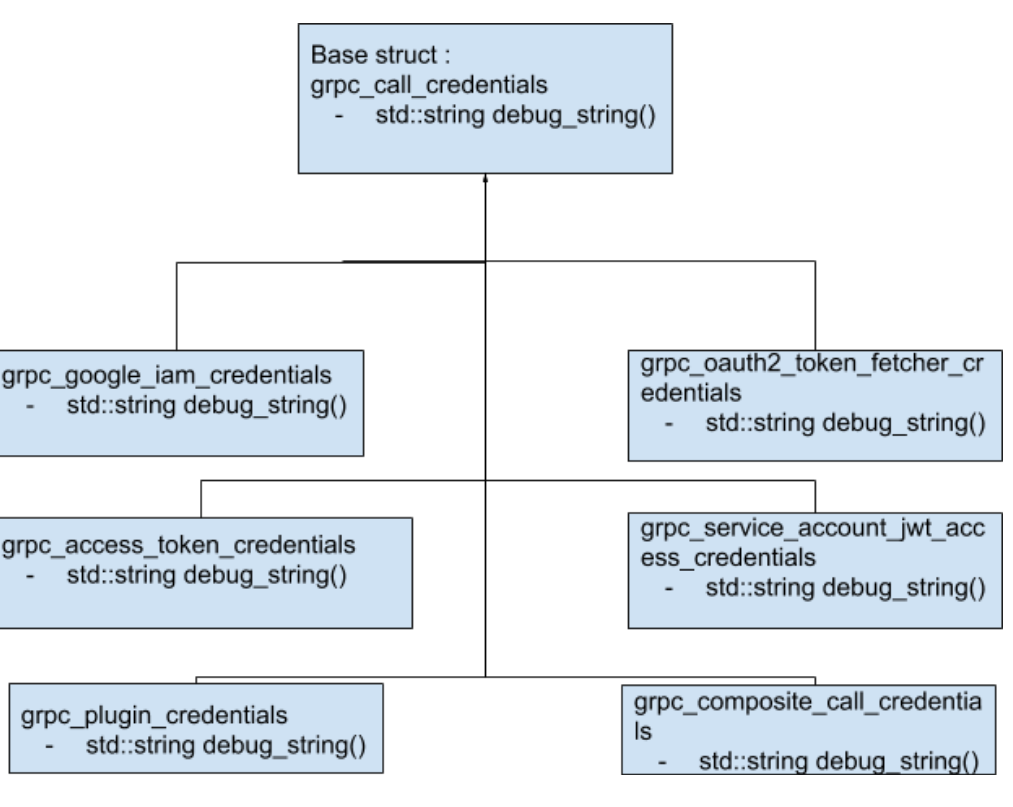
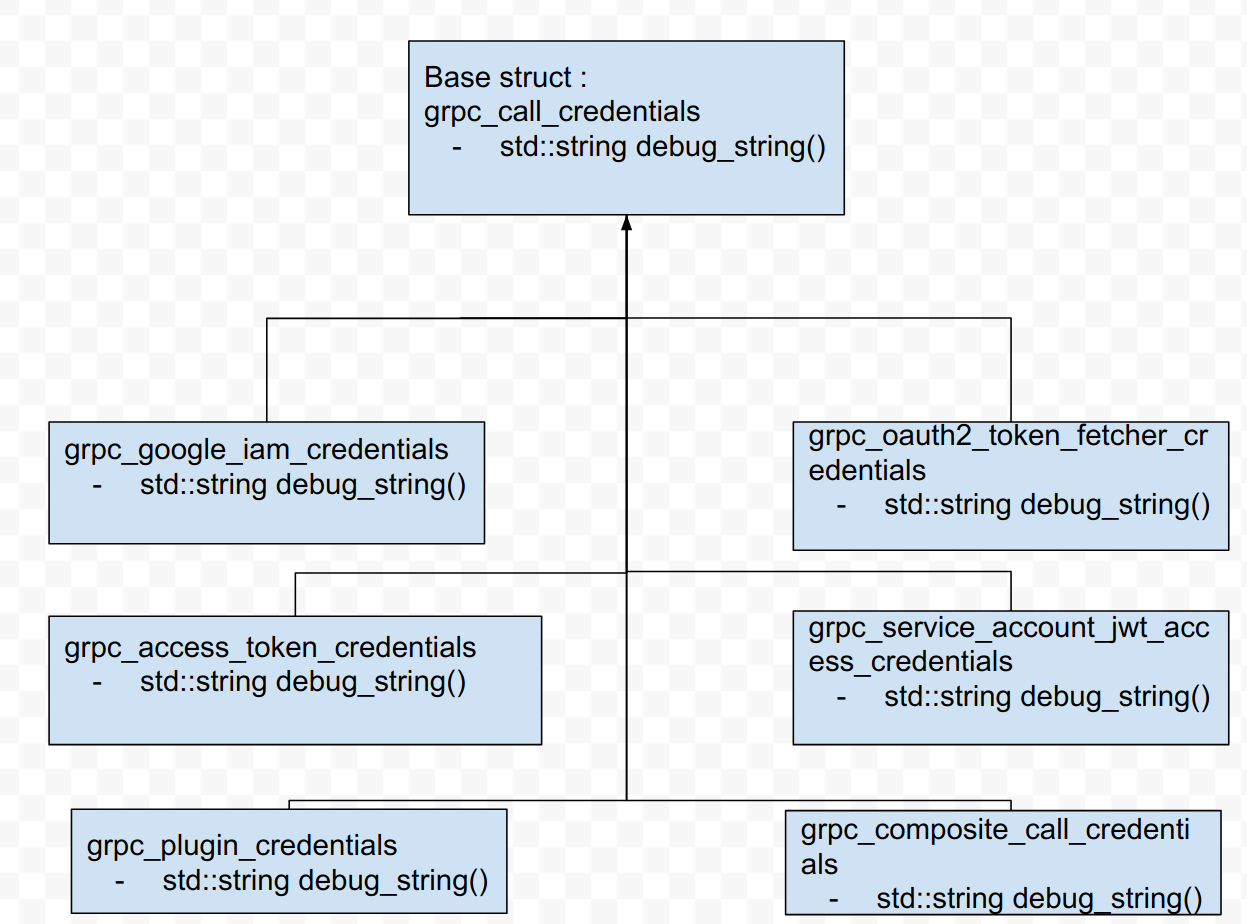
Updated graphics with correct data types, updated test paths, mentioned that this is a breaking API change

Changed region(s): [[0.0, 0.031, 1.0, 0.9913]]

diff --git a/L63-core-call-credentials-debug-string.md b/L63-core-call-credentials-debug-string.md
@@ -81,6 +81,12 @@ that string.
 To do this we need demonstrate the flow of how a callback is invoked by the
 plugin
 
+**Note: The changes made to `grpc_metadata_credentials_plugin` to support a
+`debug_string` results in a breaking API change. As
+`grpc_metadata_credentials_plugin` is a C struct and may have debug_string
+callback uninitialized. The caller has to initialize the method if they plan
+to use the `debug_string` method.**
+
 ![GRPC metadata creds plugin codeflow](L63_graphics/plugin_creds_codeflow.png)
 
 * The grpc_plugin_credentials composes a grpc_metadata_credentials_plugin
@@ -114,5 +120,7 @@ memory bounds the complete debug string should be fine as well.
 ### Tests
 We will need to add end2end tests for all of the above credential types.
 The tests will sit in.
-`//test/cpp/end2end:credentials_debug_string_test`
+`//test/cpp/end2end:end2end_test`
+`//test/core/lib/security/credentials/credentials_test`
+
 
